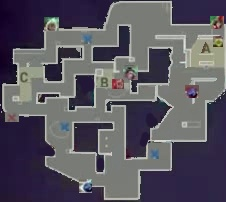
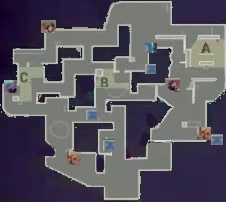
data augmenter finished

diff --git a/Data Augmentation/Augmenter.py b/Data Augmentation/Augmenter.py
@@ -4,7 +4,7 @@ import datetime
 import random
 import os
 
-def write_to_image(main_image, asset_image_path, x_off=0, y_off=0):
+def write_to_image(main_image, asset_image_path, vari_x=0, vari_y=0, vari_w=0, vari_h=0):
     # Load the asset
     small_image = cv2.imread(asset_image_path, cv2.IMREAD_UNCHANGED)
 
@@ -13,8 +13,8 @@ def write_to_image(main_image, asset_image_path, x_off=0, y_off=0):
     s_height, s_width, _ = small_image.shape
 
     # Define the coordinates where you want to place the smaller image
-    x_offset = random.randint(0, m_width-s_width)  
-    y_offset = random.randint(0, m_height-s_height)  
+    x_offset = random.randint(vari_x, m_width-s_width -vari_w)  
+    y_offset = random.randint(vari_y, m_height-s_height -vari_h)  
 
     # Define the region of interest (ROI) on the main image
     roi = main_image[y_offset:y_offset+s_height, x_offset:x_offset+s_width]
@@ -25,17 +25,16 @@ def write_to_image(main_image, asset_image_path, x_off=0, y_off=0):
             roi[i, j] = small_image[i, j][:3]
     
     # return roi PIXEL details since they are bounding box info
-    return x_offset, y_offset, s_width, s_height
+    return x_offset-vari_x, y_offset-vari_y, s_width+vari_w, s_height+vari_h
     
 
-def get_rand_img(folder_name, root_path='Data Augmentation\\test_output'):
+def get_rand_img(folder_name, file_type, root_path='Data Augmentation\\test_output'):
     folder_path = os.path.join(root_path, folder_name)
-    png_files = [f for f in os.listdir(folder_path) if f.lower().endswith('.png')]
+    png_files = [f for f in os.listdir(folder_path) if f.lower().endswith(f'.{file_type}')]
     random_png = random.choice(png_files)
     return os.path.join(folder_path, random_png)
 
-
-def generate_data_YOLO(name, main_img_path, out_image_path, out_label_path):
+def generate_data_YOLO(name, main_img_path, out_image_path, out_label_path, bb_variance=True, variance_pixel_range=5):
     # open image
     main_img = cv2.imread(main_img_path)
     
@@ -74,21 +73,28 @@ def generate_data_YOLO(name, main_img_path, out_image_path, out_label_path):
                     is_char = True
             
             # get a random image of the character
-            char_img_path = get_rand_img(char_choice)
+            char_img_path = get_rand_img(char_choice, 'png')
             print(char_img_path)
             
 
             '''
-            TODO: ADD BOUNDING BOX MANIPULATION
+            TODO: ADD BOUNDING BOX VARIANCE
             '''
-            x_center, y_center, norm_width, norm_height = write_to_image(
-                main_image=main_img,
-                asset_image_path= char_img_path,
-            )
-            # Display the resulting image
-            cv2.imshow('Result', main_img)
-            cv2.waitKey(0)
-            cv2.destroyAllWindows()
+            
+            if bb_variance:
+                x_center, y_center, norm_width, norm_height = write_to_image(
+                    main_image=main_img,
+                    asset_image_path= char_img_path,
+                    vari_x= random.randint(0, variance_pixel_range),
+                    vari_y= random.randint(0, variance_pixel_range),
+                    vari_w= random.randint(0, variance_pixel_range),
+                    vari_h= random.randint(0, variance_pixel_range)
+                )
+            else:
+                x_center, y_center, norm_width, norm_height = write_to_image(
+                    main_image=main_img,
+                    asset_image_path= char_img_path,
+                )
 
             m_height, m_width, _ = main_img.shape
             def convert_to_yolo_format(x, y, width, height, image_width, image_height):
@@ -98,8 +104,7 @@ def generate_data_YOLO(name, main_img_path, out_image_path, out_label_path):
                 height_norm = height / image_height
                 return x_norm, y_norm, width_norm, height_norm
             
-            # calculate label positions in yolo format
-            # <object-class-NUM> <x> <y> <width> <height>
+            # calculate label positions in yolo format - <object-class-NUM> <x> <y> <width> <height>
             x_center, y_center, norm_width, norm_height = convert_to_yolo_format(
                 x_center, y_center, norm_width, norm_height, m_width, m_height
             )
@@ -117,8 +122,29 @@ def generate_data_YOLO(name, main_img_path, out_image_path, out_label_path):
     cv2.imwrite(os.path.join(out_image_path, f'{name}.jpg'), main_img)
     
             
-def generate_yolo_batch(count, background_path):
+def generate_yolo_batch(count, name, background_path, output_path):
+    # create output folder
+    os.makedirs(output_path, exist_ok=True)
+    
+    # create label and image path + folders
+    out_label_path = os.path.join(output_path, 'labels')
+    out_image_path = os.path.join(output_path, 'images')
+    
+    os.makedirs(out_label_path, exist_ok=True)
+    os.makedirs(out_image_path, exist_ok=True)
+    
+    #maps = ['LOTUS']
+    for c in range(count):
+        # get random map image
+        map_img_path = get_rand_img('', 'jpg', root_path=background_path)
+        generate_data_YOLO(
+            name= f'{name}_{c}',
+            main_img_path= map_img_path,
+            out_image_path=out_image_path,
+            out_label_path=out_label_path
+        )
+    
     print('hello worlds')
 
-
-generate_data_YOLO('test', 'Data Augmentation\\Backgrounds\\LOTUS_2.jpg', 'Data Augmentation', 'Data Augmentation')
+generate_yolo_batch(3, 'i love bebe', 'Data Augmentation\\Backgrounds', 'Data Augmentation\\bebe')
+#generate_data_YOLO('test', 'Data Augmentation\\Backgrounds\\LOTUS_2.jpg', 'Data Augmentation', 'Data Augmentation')
